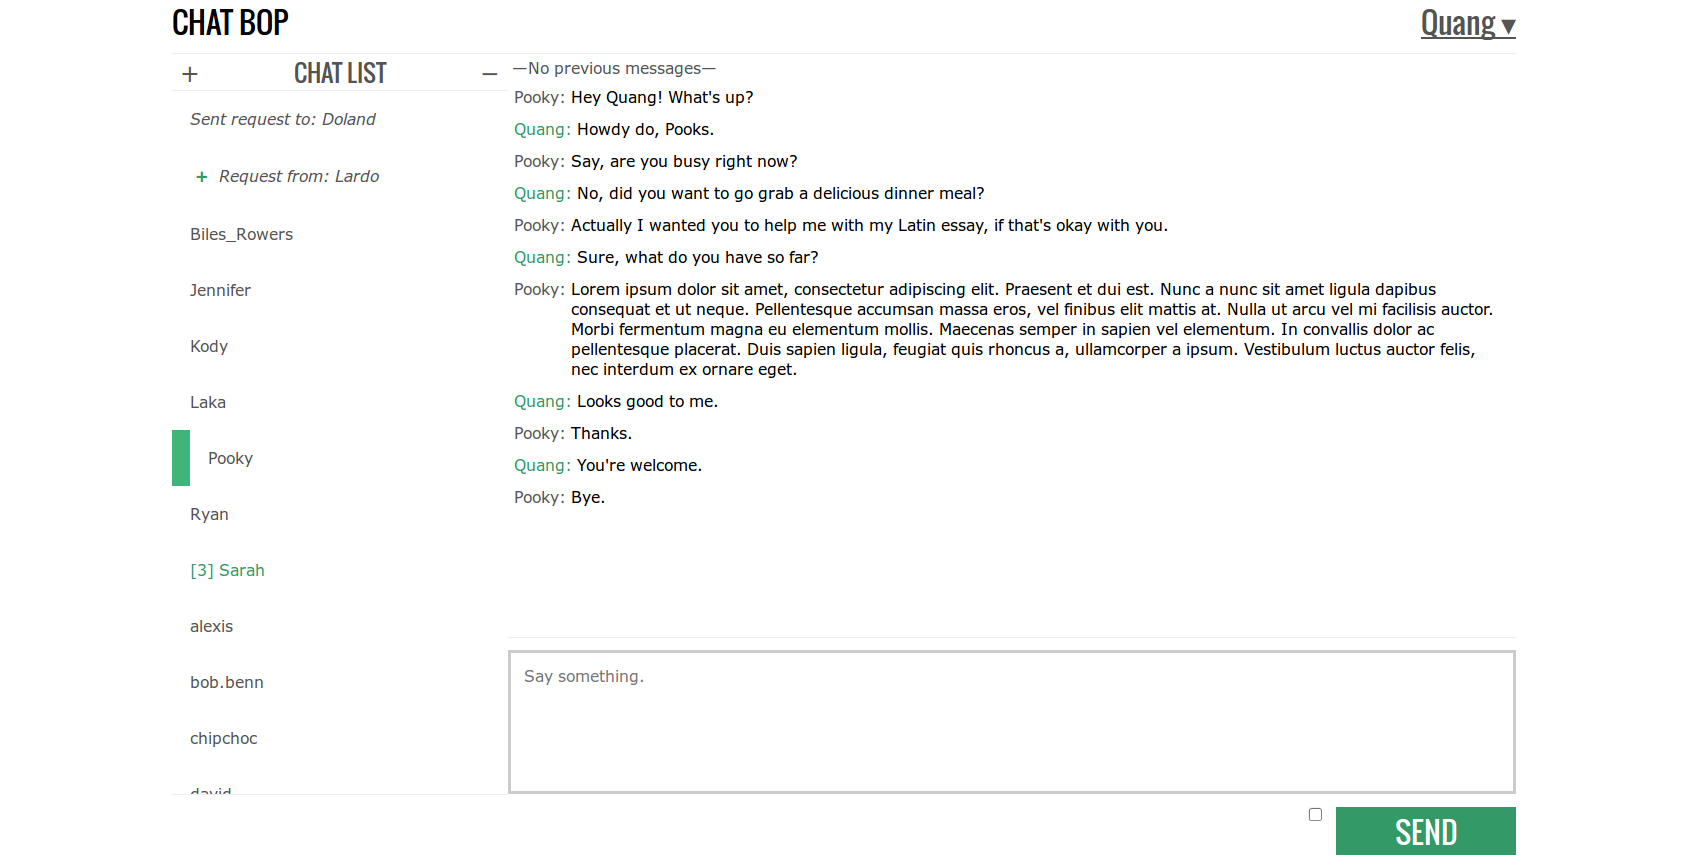
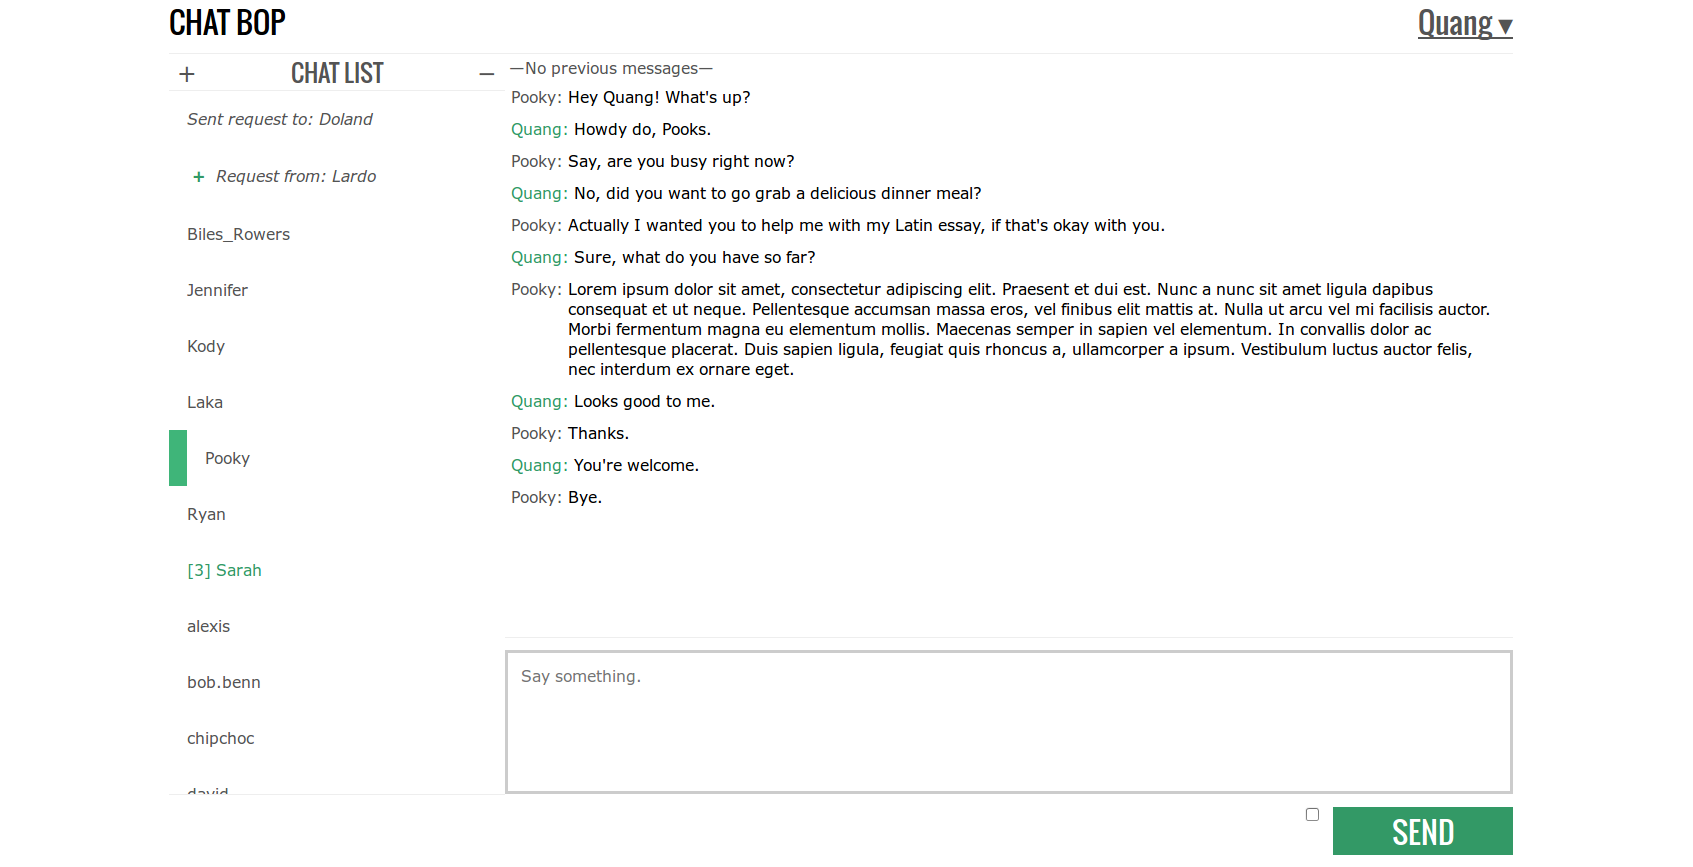
fixed border around chatbop pic

diff --git a/index.html b/index.html
@@ -49,7 +49,7 @@
             <h1 id="contact">CONTACT ME</h1>
             <ul id="bodyText">
                 <li>Email: <a id="email" href="mailto:quang@quang.io">quang@quang.io</a></li>
-                <li>Phone: 714 333-7914</li>
+                <li>Cell: (714) 333-7914</li>
             </ul>
         </div>
         <div id="footer">

diff --git a/stylesheet.css b/stylesheet.css
@@ -114,12 +114,14 @@ p {
 }
 
 #chatbopPic {
-    width: calc(100% - 8px);
-    margin: 4px;
+    width: calc(100% - 6px);
+    border: solid 3px #ccc;
+    padding-top: 5px;
+    padding-bottom: 5px;
 }
 #chatbopPic:hover {
     margin: 0;
-    border: solid 4px #396;
+    border-color: #396;
 }
 
 #footer {
